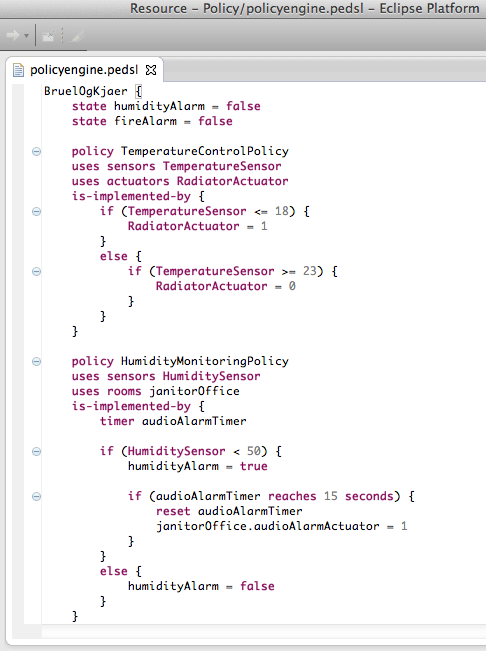
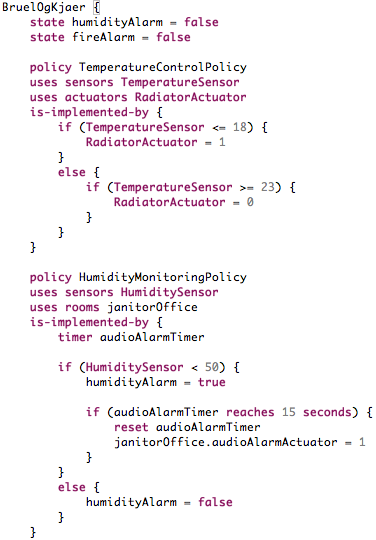
Improved structure. dsl-policy-definition.png was cleaned and scaled.

diff --git a/documents/llncs.tex b/documents/llncs.tex
@@ -71,7 +71,7 @@ In order to gather enough material to conceptualize a proper DSL, we interviewed
 
 While conducting the interviews, we pointed out that practicality or feasibility should not influence the requests for new governing rules. This proved hard for the interviewees. Some interviews were therefore conducted over several sessions, giving the interviewees time to think creatively. 
 
-We only used natural language (English, Danish) to give examples of existing building policies and facilitate the discovery of new, relevant ones. This was done to avoid the limitations of technology, like the expressiveness of a programming language.
+We only used natural language (English and Danish) to give examples of existing building policies and facilitate the discovery of new, relevant ones. This was done to avoid the limitations of technology, like the expressiveness of a programming language.
 
 Finally, this project is based on the requirements defined by the professionals working in Facility Management, and used their stated policies as requirements to be implemented as grammar-passed code using the developed DSL.
 
@@ -89,11 +89,13 @@ We have included the full DSL implementation of one of the interviewees, Br\"{u}
 	\label{fig:ecore-sensors}
 \end{figure}
 
-\subsubsection{Sensors}
-
+\subsection{Sensors}
+To be written!
 
 \newpage
-\subsubsection{Actuators}
+\subsection{Actuators}
+To be written!
+
 \begin{figure}[h]
 	\centering
     \includegraphics[scale=0.7]{ecore-actuators.png}   
@@ -101,7 +103,9 @@ We have included the full DSL implementation of one of the interviewees, Br\"{u}
 	\label{fig:ecore-actuators}
 \end{figure}
 
-\subsubsection{Expression language}
+\subsection{Expression language}
+After the analysis of the interviews we concluded that the needed expression language needed not to be very advanced. We need boolean variables (\textit{states}), and if-statements with two different types of conditions; the normal if-statement and the one that operates on a timer (see Figure \ref{fig:dsl-conditionalexpression}). 
+
 \begin{figure}[h]
   \centering
     \includegraphics[width=10cm]{ecore-expression-language.png} 
@@ -110,7 +114,7 @@ We have included the full DSL implementation of one of the interviewees, Br\"{u}
 \end{figure}
 
 \pagebreak
-\subsubsection{Building definition}
+\subsection{Building definition}
 In order to specify the building(s) with all their floors and rooms, the core classes has been included in Figure ref{fig:ecore-building-definition}. They all inherit from NamedElement, making it possible to give them a name than can be used for later referencing.
 \begin{figure}
   \centering \includegraphics[scale=0.4]{ecore-building-definition.png}  
@@ -118,7 +122,9 @@ In order to specify the building(s) with all their floors and rooms, the core cl
 	\label{fig:ecore-building-definition}
 \end{figure}
 
-\subsubsection{Policy definition}
+\subsection{Policy definition}
+
+
 \begin{figure}
   \centering
     \includegraphics[scale=0.3]{ecore-policy-definition.png}	
@@ -161,13 +167,12 @@ A \textit{time conditional expression} is an `if' statement that can react based
 \textit{Schedules} are predefined types representing a timespan where action or no-action takes place. Note that by defining several The \textit{schedules}, it is possible both to make schedules than can overlap in time, but also policies that takes over when other policies reach their end. 
 
 \begin{figure}
-  	\centering
-    \includegraphics[scale=.65]{dsl-schedules.png}
-	\caption{An example of a \textit{schedule} defined for a interviewee.}
-	\label{fig:dsl-schedules}
+  \centering
+  \includegraphics[scale=.5]{dsl-schedules.png}
+  \caption{An example of a \textit{schedule} defined for a interviewee.}
+  \label{fig:dsl-schedules}
 \end{figure}
 
-\newpage
 \subsection{Building specification}\label{subsec:buildingspecification}
 Rooms and room types are part of the complete building specification, with terminology rooted in concepts revolving around buildings, ie. rooms, room types, floors, different sensors and actuators. \\
 
@@ -185,9 +190,9 @@ Building specification as in the example below, helps us map out the actual buil
 
 \begin{figure}
   \centering
-	 \includegraphics[width=10cm]{dsl-building-definition.png}  
-	\caption{An example of \textit{building specification} defined for a interviewee.}
-	\label{fig:dsl-building-definition}
+  \includegraphics[width=10cm]{dsl-building-definition.png}  
+  \caption{An example of \textit{building specification} defined for a interviewee.}
+  \label{fig:dsl-building-definition}
 \end{figure}
 
 \newpage
@@ -196,7 +201,7 @@ Policies define the actual behavior, ie. adjustment of actuators, based on senso
 
 \begin{figure}
   \centering
-    \includegraphics[width=10cm]{dsl-policy-definition.png} 
+    \includegraphics[scale=.5]{dsl-policy-definition.png} 
 	\caption{An example of \textit{policy definition} defined for a interviewee.}
 	\label{fig:dsl-policy-definition}
 \end{figure}
